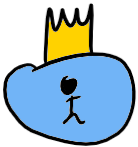
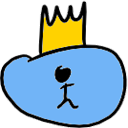
made into a platformer instead

Changed region(s): [[0.0, 0.0, 1.0, 1.0], [0.4062, 0.5, 0.625, 0.875]]

diff --git a/level.py b/level.py
@@ -1,7 +1,7 @@
 import pygame
 from settings import *
 from player import Player
-from map import Map, StartLogo
+from map import StartLogo, Tile
 from button import Button
 from camera import CameraGroup
 from global_ import Global
@@ -9,42 +9,79 @@ from enemy import Enemy
 
 
 class Level:
-    def __init__(self):
+	def __init__(self):
 
-        self.display_surface = pygame.display.get_surface()
+		self.display_surface = pygame.display.get_surface() #display surface
 
-        self.game_sprites = pygame.sprite.Group()
-        self.game_sprites.add(Map())
-        self.hidden_sprites = pygame.sprite.Group()
-        self.menu_sprites = pygame.sprite.Group()
-        self.menu_sprites.add(StartLogo())
+		self.menu_sprites = pygame.sprite.Group() #sprite group for main menu
+		self.menu_sprites.add(StartLogo()) #this could be changed into an instance of class
 
-        self.camera_group = CameraGroup()
-        self.player = Player((width/2,height/2),self.camera_group)
-        self.enemy = Enemy((100,100),self.camera_group,self.player)
-
-    def run(self):
-        #update/draw game
+		self.obstacle_sprites = pygame.sprite.Group() #anything in here can be collided with
 
 
-        if Global.state == 'game level':
-            self.game_sprites.draw(self.display_surface)
-            self.game_sprites.update()
-
-            self.camera_group.update()
-            self.camera_group.custom_draw(self.player)
+		self.camera_group = CameraGroup() #anything in here will be drawn, nothing else!
 
 
-        elif Global.state == 'main menu':
-            self.menu_sprites.draw(self.display_surface)
-            self.menu_sprites.update()
+		self.level_setup(LEVEL_MAP)
+		self.spawn_initial_enemies(LEVEL_MAP)
 
-            #exit button
-            exit_button = Button('placeholders/exitbuttonPH.png',(1100,100),Button.exit_game)
-            exit_button.when_clicked(Global.mouseclick_event)
-            self.display_surface.blit(exit_button.image, exit_button.rect)
+	def level_setup(self,levelmap):
+		self.level_map = levelmap
+		for row_index,row in enumerate(self.level_map):
+			for col_index,col in enumerate(row):
+				x = col_index * TILE_SIZE
+				y = row_index * TILE_SIZE
+				if col == 'X':
+					Tile((x,y), "aquamarine", [self.camera_group,self.obstacle_sprites])
+				if col == 'P':
+					self.player = Player((x,y),self.camera_group,self.obstacle_sprites) #player instance on entity class
+				if col == 'T':
+					self.teleporter = Tile((x,y), "yellow", self.camera_group)
 
-            #start button
-            start_button = Button('placeholders/startbuttonPH.png',(600,575),Button.start_game)
-            start_button.when_clicked(Global.mouseclick_event)
-            self.display_surface.blit(start_button.image, start_button.rect)
+
+	def spawn_initial_enemies(self, levelmap):
+		self.level_map = levelmap
+		for row_index,row in enumerate(self.level_map):
+			for col_index,col in enumerate(row):
+				x = col_index * TILE_SIZE
+				y = row_index * TILE_SIZE
+				if col == 'E':
+					self.enemy = Enemy((x,y),self.camera_group,self.player) #enemy instance of entity class
+
+	def change_level(self,levelmap):
+		self.level_map = levelmap
+		self.camera_group.empty()
+		self.obstacle_sprites.empty()
+		self.level_setup(self.level_map)
+		self.spawn_initial_enemies(self.level_map)
+
+	def tp_check(self):
+		for sprite in self.camera_group:
+			if self.player.rect.colliderect(self.teleporter.rect):
+				self.change_level(LEVEL_MAP_2)
+
+	def run(self):
+		#update/draw game
+
+
+		if Global.state == 'game level':
+
+
+			self.camera_group.update()
+			self.camera_group.custom_draw(self.player)
+			self.tp_check()
+
+
+		elif Global.state == 'main menu':
+			self.menu_sprites.draw(self.display_surface)
+			self.menu_sprites.update()
+
+			#exit button
+			exit_button = Button('placeholders/exitbuttonPH.png',(1100,100),Button.exit_game)
+			exit_button.when_clicked(Global.mouseclick_event)
+			self.display_surface.blit(exit_button.image, exit_button.rect)
+
+			#start button
+			start_button = Button('placeholders/startbuttonPH.png',(600,575),Button.start_game)
+			start_button.when_clicked(Global.mouseclick_event)
+			self.display_surface.blit(start_button.image, start_button.rect)

diff --git a/settings.py b/settings.py
@@ -1,3 +1,31 @@
-width = 1200
-height = 650
-fps = 60
+WIDTH = 1280
+HEIGHT = 720
+FPS = 60
+
+LEVEL_MAP = [
+'                                                          ',
+'               E                                         X',
+'           T                      XXX                 XXXX',
+'        XXXX           XX                    XXX      X  X',
+'    P                                                    X',
+'XXXXXX         XX         XX          XXX             XXXX',
+'  XXXX       XX                                          X',
+'  XX    X  XXXX    XX  XX      XXXXXXX       XXXXXXXX    X',
+'        X  XXXX    XX  XXX          XX          XXXXX    X',
+'     XXXX  XXXXXX  XX  XXXX        XXX    XX     XXXX    X',
+'    XXXXX  XXXXXX  XX  XXXXX    XXXXXXXX         XXXX  XXX']
+
+LEVEL_MAP_2 = [
+'                                                          ',
+'    P                                                     ',
+'  XXXX                                                    ',
+'                                                          ',
+'                            XXXX                          ',
+'            XXXXX                                         ',
+'                                                          ',
+'                                            T             ',
+'                                         XXXX             ',
+'                                                          ',
+'                                                          ']
+
+TILE_SIZE = 128

diff --git a/player.py b/player.py
@@ -1,24 +1,35 @@
 import pygame
+from entity import Entity
 
-class Player(pygame.sprite.Sprite):
-    def __init__(self,pos,group):
+class Player(Entity):
+    def __init__(self,pos,group,obstacle_sprites):
         super().__init__(group)
         self.image = pygame.image.load('placeholders/playerPH.png').convert_alpha()
         self.rect = self.image.get_rect(center = pos)
-        self.direction = pygame.math.Vector2()
         self.speed = 10
+        self.obstacle_sprites = obstacle_sprites
 
 
     def player_input(self):
         keys = pygame.key.get_pressed()
-        if keys[pygame.K_w]: self.direction.y = -1
-        elif keys[pygame.K_s]: self.direction.y = 1
-        else: self.direction.y = 0
+
         if keys[pygame.K_a]: self.direction.x = -1
         elif keys[pygame.K_d]: self.direction.x = 1
         else: self.direction.x = 0
 
+        if keys[pygame.K_SPACE]:
+            self.direction.y = -self.jump_speed
+
+    def player_gravity(self):
+        self.direction.y += self.gravity
+        self.rect.y += self.direction.y
 
     def update(self):
         self.player_input()
-        self.rect.center += self.direction * self.speed
+        self.rect.x += self.direction.x * self.speed
+        self.horiz_collision()
+        self.player_gravity()
+        self.vert_collision()
+
+        #simple collision
+        #if self.rect.y > HEIGHT: self.rect.y = HEIGHT

diff --git a/map.py b/map.py
@@ -1,16 +1,19 @@
 import pygame
 from settings import *
-from sys import exit
-from global_ import Global
 
-class Map(pygame.sprite.Sprite):
-    def __init__(self):
-        super().__init__()
-        self.image = pygame.image.load('placeholders/bgPH.png').convert_alpha()
-        self.rect = self.image.get_rect(topleft=(0,0))
+
 
 class StartLogo(pygame.sprite.Sprite):
     def __init__(self):
         super().__init__()
         self.image = pygame.image.load('placeholders/logoPH.png').convert_alpha()
         self.rect = self.image.get_rect(center =(100,100))
+
+class Tile(pygame.sprite.Sprite):
+    def __init__(self, pos, color, groups):
+        super().__init__(groups)
+        self.color = color
+
+        self.image = pygame.Surface((TILE_SIZE,TILE_SIZE))
+        self.image.fill(self.color)
+        self.rect = self.image.get_rect(topleft=pos)

diff --git a/camera.py b/camera.py
@@ -24,7 +24,7 @@ class CameraGroup(pygame.sprite.Group):
 		self.ground_rect = self.ground_surf.get_rect(topleft = (0,0))
 
 		# zoom
-		self.zoom_scale = 1
+		self.zoom_scale = 0.75
 		self.internal_surf_size = (2500,2500)
 		self.internal_surf = pygame.Surface(self.internal_surf_size, pygame.SRCALPHA)
 		self.internal_rect = self.internal_surf.get_rect(center = (self.half_w,self.half_h))
@@ -60,7 +60,7 @@ class CameraGroup(pygame.sprite.Group):
 		self.internal_surf.blit(self.ground_surf,ground_offset)
 
 		# active elements
-		for sprite in sorted(self.sprites(),key = lambda sprite: sprite.rect.centery):
+		for sprite in self.sprites(): #sorted(self.sprites(),key = lambda sprite: sprite.rect.centery): y-sort camera
 			offset_pos = sprite.rect.topleft - self.offset + self.internal_offset
 			self.internal_surf.blit(sprite.image,offset_pos)
 

diff --git a/enemy.py b/enemy.py
@@ -1,7 +1,8 @@
 import pygame
+from entity import Entity
 
 
-class Enemy(pygame.sprite.Sprite):
+class Enemy(Entity):
     def __init__(self,pos,group,target):
         super().__init__(group)
         self.image = pygame.image.load('placeholders/queenslimePH.png').convert_alpha()
@@ -10,14 +11,13 @@ class Enemy(pygame.sprite.Sprite):
         self.target = target
         self.speed = 5
 
-
     def movement(self):
         enemy_vec = pygame.math.Vector2(self.rect.center)
         target_vec = pygame.math.Vector2(self.target.rect.center)
         self.distance = (target_vec - enemy_vec).magnitude()
 
 
-        if self.distance <= 400 and self.distance >= 10:
+        if self.distance >= 10: #and self.distance <= 1200:
             self.direction = (target_vec - enemy_vec).normalize()
         else: self.direction = pygame.math.Vector2()
 

diff --git a/entity.py b/entity.py
@@ -1,0 +1,28 @@
+import pygame
+
+
+class Entity(pygame.sprite.Sprite):
+	def __init__(self,groups):
+		super().__init__(groups)
+		self.direction = pygame.math.Vector2()
+		self.gravity = 1
+		self.jump_speed = 20
+
+
+	def horiz_collision(self):
+		for sprite in self.obstacle_sprites:
+			if self.rect.colliderect(sprite.rect):
+				if self.direction.x < 0:
+					self.rect.left = sprite.rect.right
+				if self.direction.x > 0:
+					self.rect.right = sprite.rect.left
+
+	def vert_collision(self):
+		for sprite in self.obstacle_sprites:
+			if self.rect.colliderect(sprite.rect):
+				if self.direction.y > 0:
+					self.rect.bottom = sprite.rect.top
+					self.direction.y = 0
+				if self.direction.y < 0:
+					self.rect.top = sprite.rect.bottom
+					self.direction.y = 0

diff --git a/main.py b/main.py
@@ -8,8 +8,8 @@ from button import *
 class Game:
     def __init__(self):
         pygame.init()
-        screen = pygame.display.set_mode((width, height))
-        pygame.display.set_caption('My Game')
+        screen = pygame.display.set_mode((WIDTH, HEIGHT))
+        pygame.display.set_caption('Platformer Game')
         self.clock = pygame.time.Clock()
 
         self.level = Level()
@@ -28,7 +28,7 @@ class Game:
             self.level.run()
 
             pygame.display.update() #update the screen when While True is on
-            self.clock.tick(fps)
+            self.clock.tick(FPS)
 
 
 

diff --git a/global_.py b/global_.py
@@ -1,5 +1,5 @@
 import pygame
 
 class Global:
-        state = 'main menu'
+        state = 'game level'
         mouseclick_event = pygame.MOUSEBUTTONDOWN
